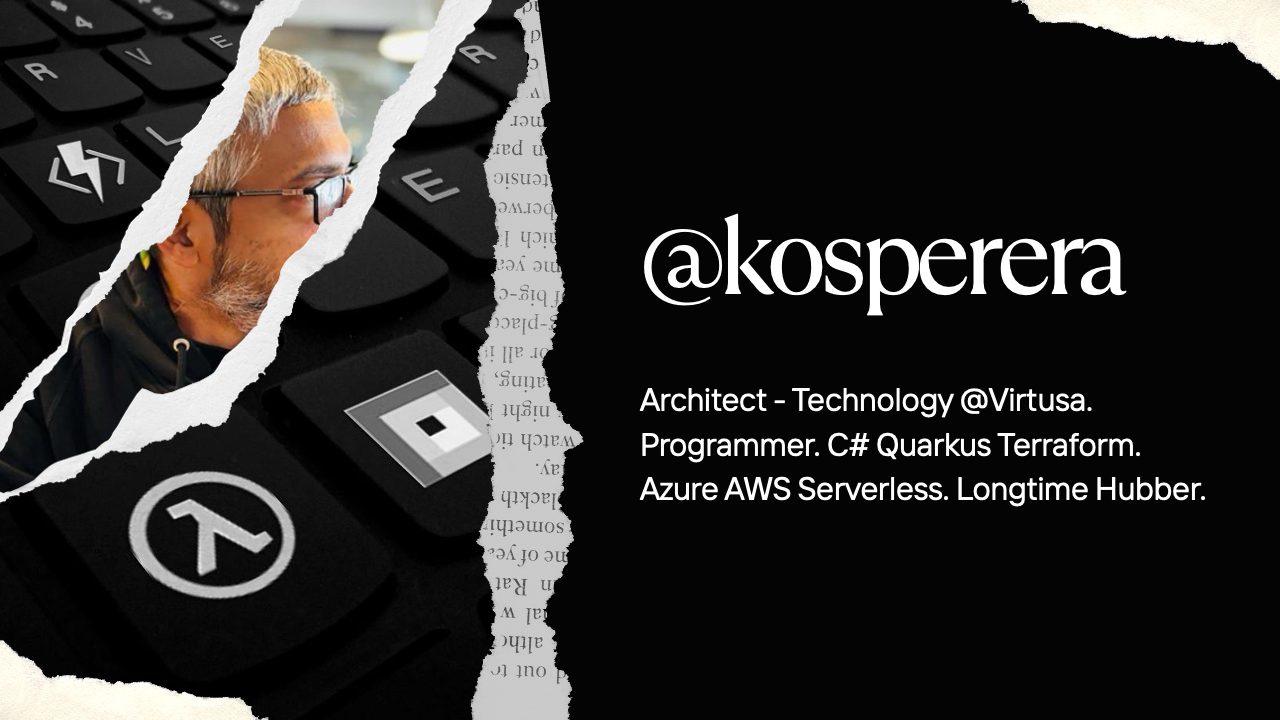
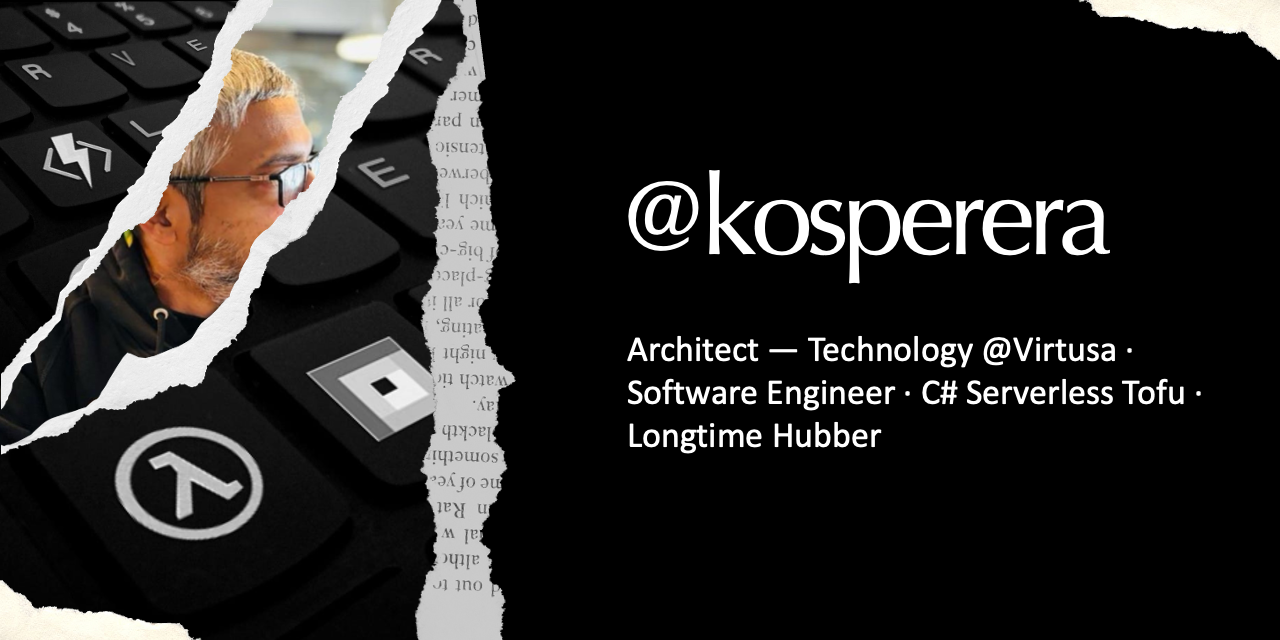
sync: save changes via editor

diff --git a/README.md b/README.md
@@ -1,6 +1,6 @@
 <a href="https://kosperera.github.io">
   <img
-    alt="Architect - Technology @Virtusa. Programmer. C# Quarkus Terraform. Azure AWS Serverless. Long-term Hubber."
+    alt="Architect - Technology at Virtusa. Software Engineer. C-sharp Serverless Tofu. Longtime Hubber."
     src="https://raw.githubusercontent.com/kosperera/kosperera/main/GitHubCover.png"
     width="100%"
   />
